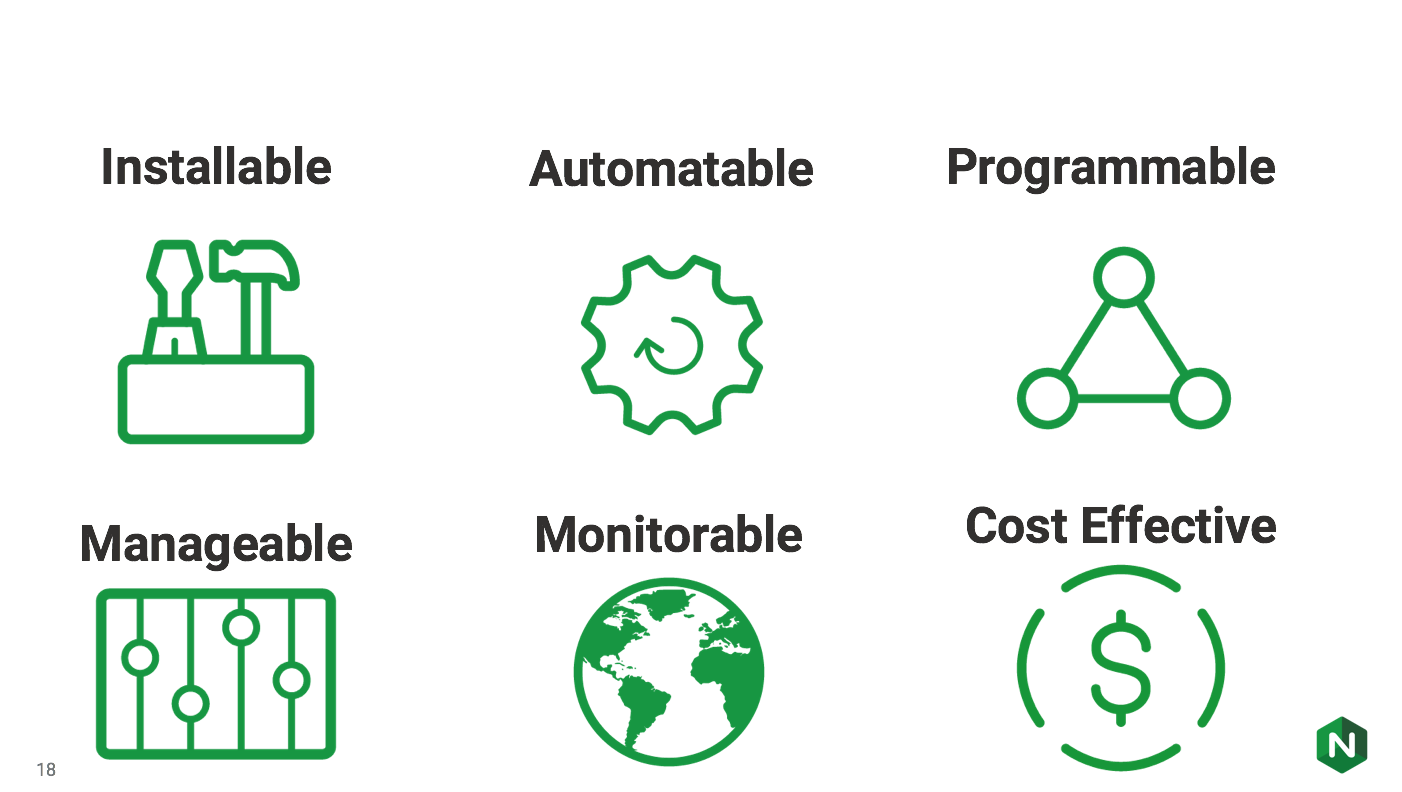
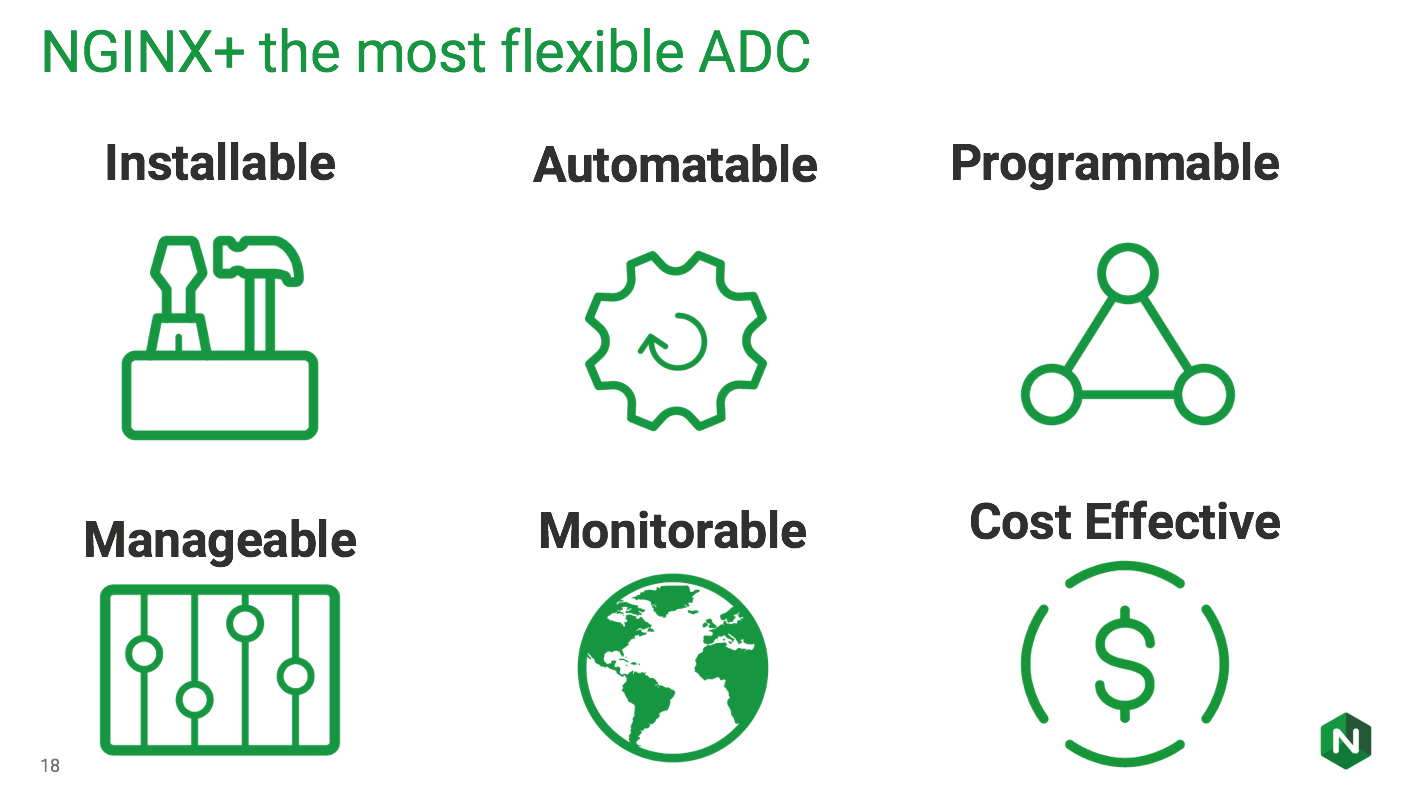
added stratactics discussion"

diff --git a/README.md b/README.md
@@ -1,13 +1,14 @@
 # NGINX+ Ansible Demo - Layer 7 Services as Code (L7aC)
 
-[![NGINX+ Ansible Demo](docs/ansible_demo.png)](https://www.nginx.com/products/nginx/ "NGINX+")
-
-## NGINX is the most flexible ADC 
 [![NGINX+ Ansible Demo](docs/flexible.png)](https://www.nginx.com/products/nginx/ "NGINX+")
 
+[![NGINX+ Ansible Demo](docs/ansible_demo.png)](https://www.nginx.com/products/nginx/ "NGINX+")
 
 ## Layer 7 Services as Code (L7aC) -  Principles, Practices and Patterns
 [Layer 7 Services as Code (L7aC) -  Benefits](docs/L7AC.md)
+
+## L7aC "Stratactics"
+[L7aC Strategies and Tactics](docs/stratactics.md)
 
 ## Installing Ansible
 

diff --git a/docs/stratatics.md b/docs/stratatics.md
@@ -1,0 +1,6 @@
+
+
+[![NGINX+ Ansible Demo](ansible.png)](https://www.nginx.com/products/nginx/ "NGINX+")
+
+
+[![NGINX+ Ansible Demo](diet.png)](https://www.nginx.com/products/nginx/ "NGINX+")
